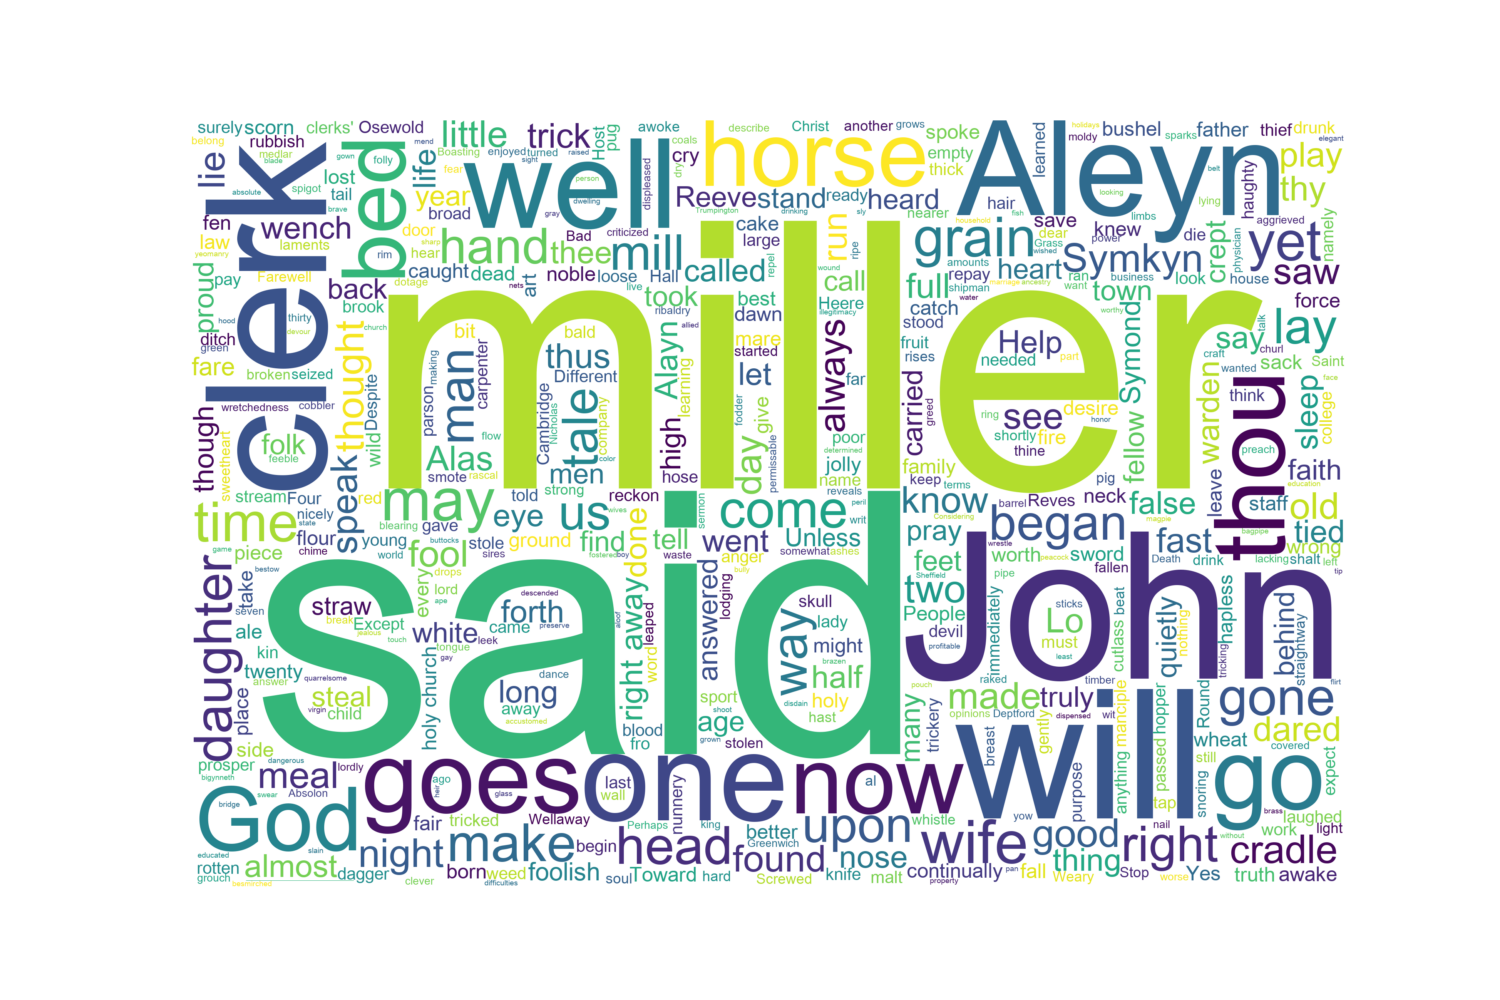
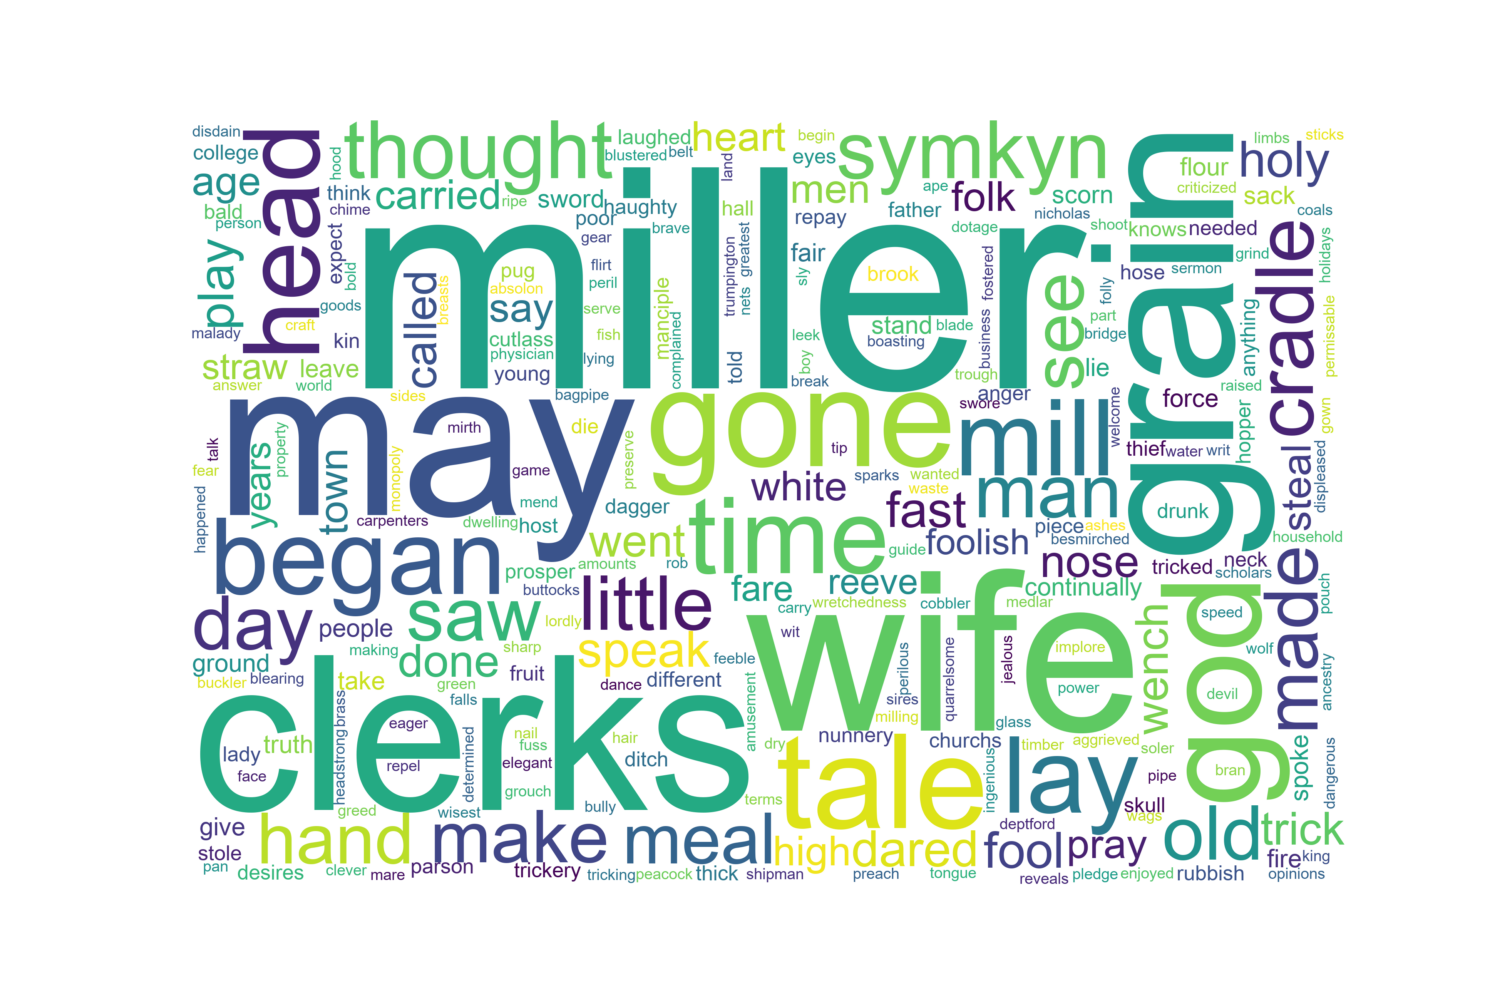
Word Cloud only includes verb, noun, adj

diff --git a/WordCloud.py b/WordCloud.py
@@ -2,14 +2,28 @@
 from wordcloud import WordCloud
 import matplotlib.pyplot as plt
 #import data:
-reeves_tale = open('ReevesTale.txt').read()
-millers_tale = open('millersTale.txt').read()
-wife_tale = open('wifeOfBath.txt').read()
-
+reeves_tale = open('ReevesTale.txt')
+#Noun, adjectives and verbs list:
+reeve_important = ['folk', 'business', 'absolon', 'nicholas', 'opinions', 'part', 'tale', 'man', 'Osewold', 'reeve', 'carpenters', 'craft', 'anger', 'heart', 'grouch', 'little', 'may', 'prosper', 'fruit', 'medlar', 'same', 'rubbish', 'straw', 'men', 'fear', 'fare', 'dance', 'world', 'pipe', 'sticks', 'nail', 'leek', 'power', 'desires', 'folly', 'anything', 'ashes', 'fire', 'coals', 'boasting', 'lying', 'greed', 'sparks', 'age', 'limbs', 'truth', 'years', 'tongue', 'chime', 'wretchedness', 'dotage', 'host', 'sermon', 'king', 'wit', 'day', 'holy', 'writ', 'devil', 'cobbler', 'shipman', 'physician', 'time', 'deptford', 'sires', 'displeased', 'fool', 'permissable', 'force', 'miller', 'terms', 'god', 'neck', 'piece', 'timber', 'trumpington', 'Cambridge', 'brook', 'bridge', 'mill', 'dwelling', 'peacock', 'bagpipe', 'fish', 'nets', 'game', 'belt', 'cutlass', 'blade', 'sword', 'dagger', 'pouch', 'peril', 'Sheffield', 'hose', 'face', 'nose', 'ape', 'skull', 'bully', 'person', 'hand', 'thief', 'grain', 'meal', 'sly', 'haughty', 'symkyn', 'wife', 'kin', 'parson', 'town', 'father', 'pan', 'brass', 'nunnery', 'holidays', 'tip', 'hood', 'gown', 'lady', 'water', 'ditch', 'disdain', 'cradle', 'boy', 'wench', 'eyes', 'glass', 'buttocks', 'breasts', 'hair', 'property', 'household', 'ancestry', 'churchs', 'goods', 'monopoly', 'milling', 'land', 'college', 'people', 'soler', 'hall', 'manciple', 'malady', 'fuss', 'scholars', 'mirth', 'amusement', 'buckler', 'sides', 'gear', 'guide', 'sack', 'head', 'hopper', 'trough', 'flour', 'bran', 'clerks', 'wolf', 'mare', 'foolish', 'clever', 'different', 'aggrieved', 'little', 'angry', 'old', 'dry', 'white', 'ripe', 'green', 'gone', 'continually', 'feeble', 'young', 'lordly', 'holy', 'waste', 'drunk', 'perilous', 'sharp', 'elegant', 'pug', 'bald', 'quarrelsome', 'brave', 'good-looking', 'thick', 'high', 'fair', 'headstrong', 'poor', 'eager', 'bold', 'implore', 'fast', 'done', 'ingenious', 'greatest', 'wisestfolk', 'wisest', 'laughed', 'enjoyed', 'saw', 'criticized', 'prosper', 'repay', 'blearing', 'tricking', 'wanted', 'speak', 'play', 'done', 'reveals', 'fear', 'ripe', 'dance', 'pipe', 'sticks', 'have', 'gone', 'talk', 'making', 'began', 'amounts', 'made', 'preach', 'say', 'waste', 'deplored', 'begin', 'pray', 'answer', 'make', 'repel', 'force', 'told', 'tricked', 'scorn', 'leave', 'break', 'see', 'called', 'carried', 'played', 'mend', 'shoot', 'fostered', 'would', 'preserve', 'went', 'flirt', 'dared', 'cut', 'jealous', 'dangerous', 'think', 'besmirched', 'lie', 'determined', 'raised', 'ground', 'happened', 'lay', 'thought', 'die', 'stole', 'complained', 'fuss', 'blustered', 'swore', 'implore', 'give', 'pledge', 'steal', 'trickery', 'rob', 'needed', 'guide', 'lays', 'spoke', 'fares', 'welcome', 'knows', 'serve', 'expect', 'grind', 'carry', 'speed', 'stand', 'wags', 'falls', 'trick', 'take', 'wisest']
+cleaned_reeve = ''
+for line in reeves_tale:
+    line = line.lower()
+    if line != "\n":
+        for word in line.split(' '):
+            word = ''.join(x for x in word if x.isalpha())
+            if word != '':
+                cleaned_reeve = cleaned_reeve+ ' ' + word
+print(cleaned_reeve)
+refined_list = ''
+for word in cleaned_reeve.split(' '):
+    #print(word)
+    if word in reeve_important:
+        refined_list = refined_list + ' ' + word
+#print(refined_list)
 #generate a word cloud based on the reeves tale:
-wordcloud_reeve = WordCloud(font_path = '/Library/Fonts/Arial Unicode.ttf', background_color="white", width=3000, height=2000, max_words=500).generate(reeves_tale)
+wordcloud_reeve = WordCloud(font_path = '/Library/Fonts/Arial Unicode.ttf', background_color="white", width=3000, height=2000, max_words=500).generate(refined_list)
 
 plt.figure(figsize=[15,10])
 plt.imshow(wordcloud_reeve, interpolation="bilinear")
 plt.axis("off")
-plt.savefig("reeveImage.png")
+plt.savefig("reeveWordCloud.png")
